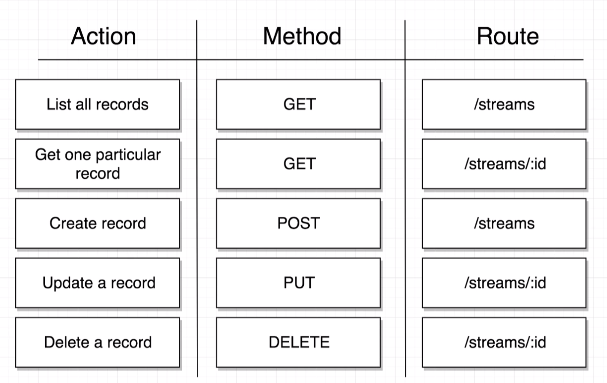
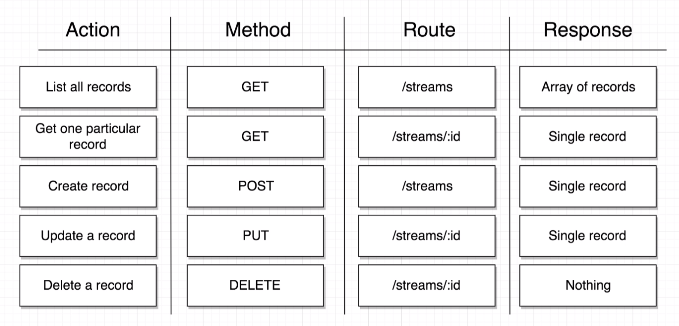
10-TwitchTV add actions and reducers

Changed region(s): [[0.0, 0.0613, 0.9786, 0.9816], [0.089, 0.0613, 0.2372, 0.1227]]

diff --git a/10-TwitchTV/streams/client/src/actions/index.js b/10-TwitchTV/streams/client/src/actions/index.js
@@ -1,4 +1,13 @@
-import { SIGN_IN, SIGN_OUT } from './types';
+import streams from '../apis/streams';
+import { 
+    SIGN_IN, 
+    SIGN_OUT, 
+    CREATE_STREAM, 
+    FETCH_STREAM, 
+    FETCH_STREAMS, 
+    DELETE_STREAM, 
+    EDIT_STREAM 
+} from './types';
 
 export const signIn = (userId) => {
     return {
@@ -11,4 +20,34 @@ export const signOut = () => {
     return {
         type: SIGN_OUT
     };
+}
+
+export const createStream = formValues => async dispatch => {
+    const response = await streams.post('/streams', formValues);
+
+    dispatch({ type: CREATE_STREAM, payload: response.data });
+};
+
+export const fetchStreams = () => async dispatch => {
+    const response = await streams.get('/streams');
+
+    dispatch({ type: FETCH_STREAMS, payload: response.data });
+}
+
+export const fetchStream = (id) => async dispatch => {
+    const response = await streams.get(`/streams/${id}`);
+
+    dispatch({ type: FETCH_STREAM, payload: response.data });
+}
+
+export const editStream = (id, formValues) => async dispatch => {
+    const response = await streams.put(`/streams/${id}`, formValues);
+
+    dispatch({ type: EDIT_STREAM, payload: response.data });
+}
+
+export const deleteStream = (id) => async dispatch => {
+    await streams.delete(`/streams/${id}`);
+
+    dispatch({ type: DELETE_STREAM, payload: id });
 }

diff --git a/10-TwitchTV/streams/client/src/components/streams/StreamCreate.js b/10-TwitchTV/streams/client/src/components/streams/StreamCreate.js
@@ -1,5 +1,7 @@
 import React from 'react';
 import { Field, reduxForm } from 'redux-form';
+import { connect } from 'react-redux';
+import { createStream } from '../../actions';
 
 class StreamCreate extends React.Component {
     renderError({ error, touched }) {
@@ -23,7 +25,8 @@ class StreamCreate extends React.Component {
         );
     }
 
-    onSubmit(formValues) {
+    onSubmit = formValues => {
+        this.props.createStream(formValues);
     }
 
     render()  {
@@ -51,7 +54,9 @@ const validate = (formValues) => {
     return errors;
 };
 
-export default reduxForm({
+const formWrapped = reduxForm({
     form: 'streamCreate',
     validate
 })(StreamCreate);
+
+export default connect(null, { createStream })(formWrapped);

diff --git a/10-TwitchTV/streams/client/src/reducers/streamReducer.js b/10-TwitchTV/streams/client/src/reducers/streamReducer.js
@@ -1,0 +1,27 @@
+import _ from 'lodash';
+import {
+    CREATE_STREAM,
+    FETCH_STREAM,
+    FETCH_STREAM,
+    EDIT_STREAM,
+    DELETE_STREAM,
+    FETCH_STREAMS
+} from '../actions/types';
+
+export default (state = {}, action) => {
+    switch(action.type) {
+        case CREATE_STREAM:
+            return { ...state, [action.payload.id]: action.payload };
+
+        case FETCH_STREAM:
+            return { ...state, [action.payload.id]: action.payload };
+
+        case EDIT_STREAM:
+            return { ...state, [action.payload.id]: action.payload };
+
+        case DELETE_STREAM:
+            return _.omit(state, action.payload);
+        default:
+            return state;
+    }
+}

diff --git a/10-TwitchTV/streams/client/src/index.js b/10-TwitchTV/streams/client/src/index.js
@@ -3,12 +3,13 @@ import ReactDOM from 'react-dom';
 
 import { Provider } from 'react-redux';
 import { createStore, applyMiddleware, compose } from 'redux';
+import reduxThunk from 'redux-thunk';
 
 import App from './components/App';
 import reducers from './reducers';
 
 const composeEnhancers = window.__REDUX_DEVTOOLS_EXTENSION_COMPOSE__ || compose;
-const store = createStore(reducers, composeEnhancers(applyMiddleware()));
+const store = createStore(reducers, composeEnhancers(applyMiddleware(reduxThunk)));
 
 ReactDOM.render(
     <Provider store={store}>

diff --git a/10-TwitchTV/streams/client/src/actions/types.js b/10-TwitchTV/streams/client/src/actions/types.js
@@ -1,2 +1,7 @@
 export const SIGN_IN = 'SIGN_IN';
 export const SIGN_OUT = 'SIGN_OUT';
+export const CREATE_STREAM = 'CREATE_STREAM';
+export const FETCH_STREAM = 'FETCH_STREAM';
+export const FETCH_STREAMS = 'FETCH_STREAMS';
+export const DELETE_STREAM = 'DELETE_STREAM';
+export const EDIT_STREAM = 'EDIT_STREAM';

diff --git a/10-TwitchTV/streams/client/src/apis/streams.js b/10-TwitchTV/streams/client/src/apis/streams.js
@@ -1,0 +1,5 @@
+import axios from 'axios';
+
+export default axios.create({
+    baseURL: 'http://localhost:3001'
+});
